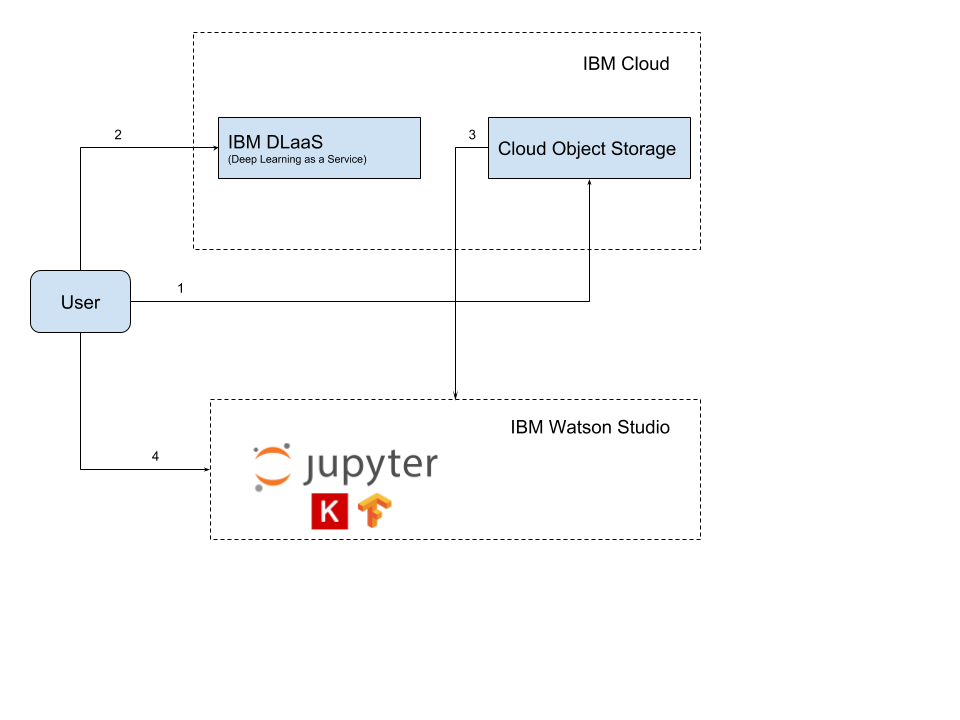
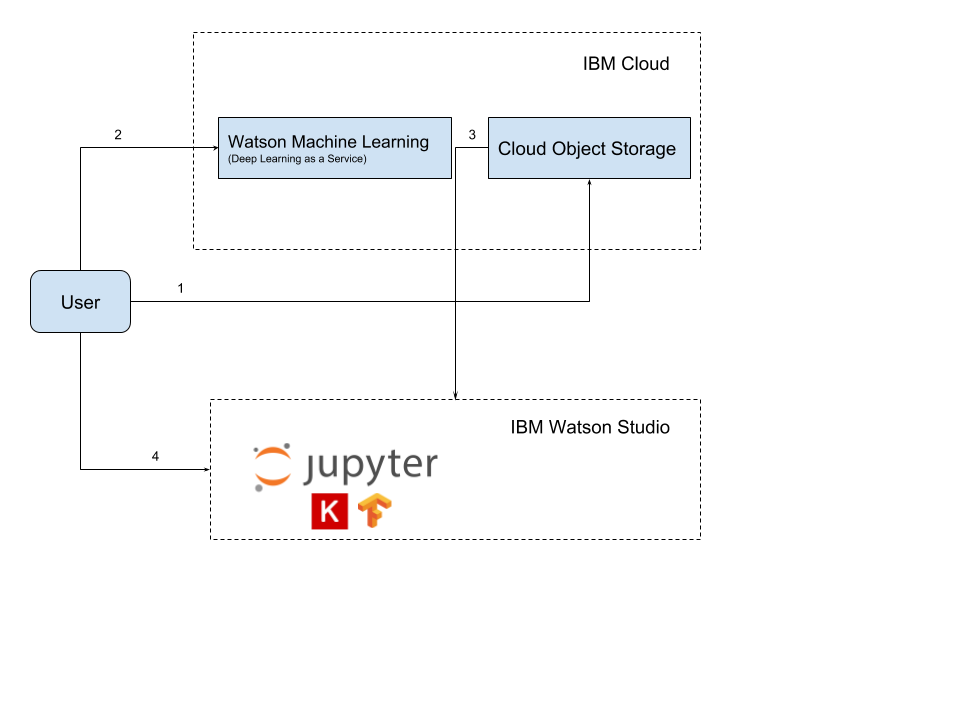
Updated readme and changed flow image.

Changed region(s): [[0.2188, 0.1528, 0.4688, 0.275]]

diff --git a/README.md b/README.md
@@ -1,13 +1,13 @@
 # Train and Evaluate an Audio Classifier using Keras and Jupyter Notebook
 
-This developer code pattern will guide you through training a Deep Learning model to classify audio embeddings on IBM Deep Learning as a Service (DLaaS) platform and performing inference/evaluation on IBM Watson Studio. 
+This developer code pattern will guide you through training a Deep Learning model to classify audio embeddings on IBM's Deep Learning as a Service (DLaaS) platform  - Watson Machine Learning - and performing inference/evaluation on IBM Watson Studio. 
 
 The model will use audio embeddings generated by the VGG-ish model as an input and generate output probabilities/scores for 527 classes. For the purposes of illustrating the concept and exposing a developer to the features on IBM Cloud platforms, Google's Audioset data is used, where the embeddings have been pre-processed and available readily.  However, a developer can leverage this model to create their own custom audio classifier trained on their own audio embeddings/data.
 
 When the reader has completed this Code Pattern, they will understand how to:
 
 * Setup an IBM Cloud object storage bucket and upload the training data to the cloud.
-* Upload a Deep Learning model to IBM DLaaS for training.
+* Upload a Deep Learning model to Watson ML for training.
 * Integrate the object storage buckets into IBM Watson Studio.
 * Perform inference on an evaluation dataset using Jupyter Notebooks over IBM Watson Studio.
 
@@ -21,9 +21,9 @@ When the reader has completed this Code Pattern, they will understand how to:
 4. Upload and run the attaheched Jupyter notebook on Watson Studio to perform inference. 
 
 ## Included Components
-* [IBM Cloud Object Storage](https://www.ibm.com/cloud/): <insert official description here>
-* [IBM Deep Learning as a Service](https://www.ibm.com/cloud/): insert description here
-* [Watson Studio](https://www.ibm.com/cloud/watson-studio): insert description here 
+* [IBM Cloud Object Storage](https://www.ibm.com/cloud/):  A highly scalable cloud storage service, designed for high durability, resiliency and security.
+* [IBM Cloud Watson Machine Learning](https://www.ibm.com/cloud/machine-learning/pricing): Create, train, and deploy self-learning models. 
+* [Watson Studio](https://www.ibm.com/cloud/watson-studio): Build, train, deploy and manage AI models, and prepare and analyze data, in a single, integrated environment.
 * [Jupyter Notebooks](http://jupyter.org/): An open source web application that allows you to create and share documents that contain live code, equations, visualizations, and explanatory text.
 * [Keras](https://keras.io/): The Python Deep Learning library.
 * [Tensorflow](https://www.tensorflow.org/): An open-source software library for Machine Intelligence.
@@ -71,7 +71,7 @@ The steps can be broadly classified into the following topics:
 
 1. Clone the repository.
 2. Upload training data to cloud object storage.
-3. Setup and upload model on DLaaS to train.
+3. Setup and upload model on Watson ML (DLaaS) to train.
 4. Upload evaluation notebook to Watson Studio.
 5. Run evaluation on Watson Studio.
 
@@ -133,7 +133,7 @@ $ aws s3 cp unbal_train.h5 s3://training-audioset-classify/
 $ aws s3 cp eval.h5 s3://training-audioset-classify/
 ```
 
-## 3. Setup and upload model to DLaaS 
+## 3. Setup and upload model to Watson ML 
 
 Now that we have our training data setup, we upload our model and submit a training job. 
 
